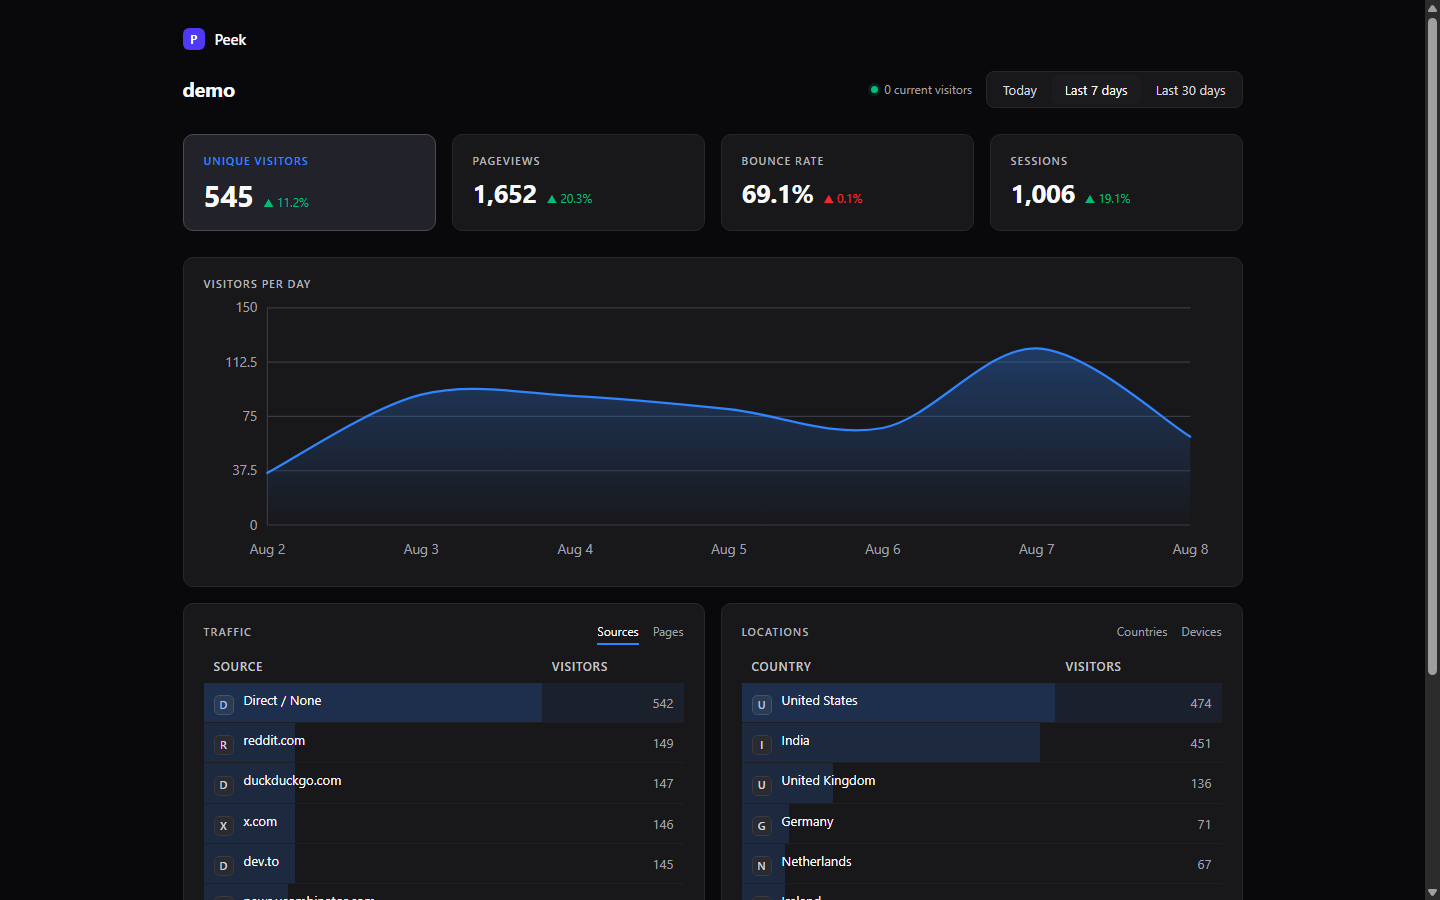
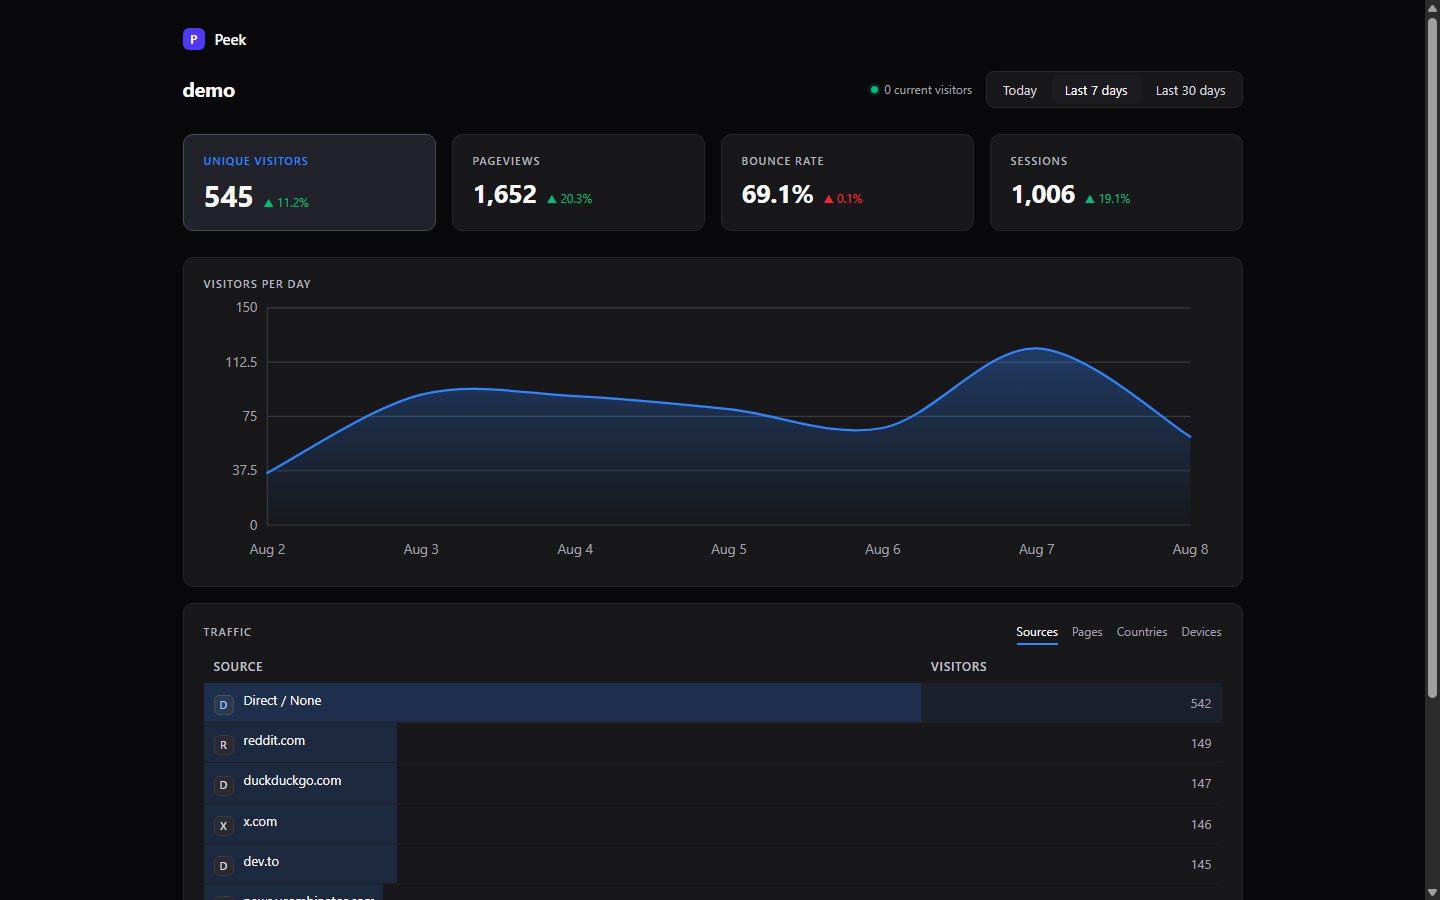
round 8: single full-width 4-tab Traffic card (Sources|Pages|Countries|Devices, Plausible-style tabbed panel), mobile chart h 140 + compact KPIs so tables fit fully above the fold (last text 814/844, 30px clearance, zero sliced rows)

diff --git a/server.js b/server.js
@@ -103,8 +103,16 @@ function renderDashboard(req, res) {
   }
 
   const tab = req.query.tab === 'pages' ? 'pages' : req.query.tab === 'countries' ? 'countries' : req.query.tab === 'devices' ? 'devices' : 'sources';
-  const tabs = (current, pairs) => pairs.map(([k, label]) =>
-    `<a href="/dashboard?range=${range}&tab=${k}"${k === current ? ' class="on"' : ''}>${label}</a>`).join('');
+  const tabs = [['sources', 'Sources'], ['pages', 'Pages'], ['countries', 'Countries'], ['devices', 'Devices']]
+    .map(([k, label]) => `<a href="/dashboard?range=${range}&tab=${k}"${k === tab ? ' class="on"' : ''}>${label}</a>`).join('');
+
+  const table = tab === 'pages'
+    ? rows(lib.topPages(SITE, Math.floor(start / 1000)), 'path', 'pv', ['Page', 'Pageviews'])
+    : tab === 'countries'
+      ? rows(lib.topCountries(SITE, Math.floor(start / 1000)).map(r => ({ ...r, country: cname(r.country) })), 'country', 'pv', ['Country', 'Visitors'])
+      : tab === 'devices'
+        ? rows(lib.topScr(SITE, Math.floor(start / 1000)).map(r => ({ ...r, scr: r.scr[0].toUpperCase() + r.scr.slice(1) })), 'scr', 'pv', ['Device', 'Visitors'])
+        : rows(lib.topRefs(SITE, Math.floor(start / 1000)), 'ref', 'pv', ['Source', 'Visitors']);
 
   const html = DASH
     .replaceAll('{{SITE}}', esc(SITE))
@@ -115,14 +123,8 @@ function renderDashboard(req, res) {
     .replaceAll('{{SESSIONS}}', lib.fmt(cur.sessions)).replaceAll('{{SESSIONS_TREND}}', trend(cur.sessions, prev.sessions))
     .replaceAll('{{LIVE}}', lib.currentVisitors(SITE))
     .replaceAll('{{CHART}}', chart)
-    .replaceAll('{{TR_TABS}}', tabs(tab, [['sources', 'Sources'], ['pages', 'Pages']]))
-    .replaceAll('{{LOC_TABS}}', tabs(tab, [['countries', 'Countries'], ['devices', 'Devices']]))
-    .replaceAll('{{TR_TABLE}}', tab === 'pages'
-      ? rows(lib.topPages(SITE, Math.floor(start / 1000)), 'path', 'pv', ['Page', 'Pageviews'])
-      : rows(lib.topRefs(SITE, Math.floor(start / 1000)), 'ref', 'pv', ['Source', 'Visitors']))
-    .replaceAll('{{LOC_TABLE}}', tab === 'devices'
-      ? rows(lib.topScr(SITE, Math.floor(start / 1000)).map(r => ({ ...r, scr: r.scr[0].toUpperCase() + r.scr.slice(1) })), 'scr', 'pv', ['Device', 'Visitors'])
-      : rows(lib.topCountries(SITE, Math.floor(start / 1000)).map(r => ({ ...r, country: cname(r.country) })), 'country', 'pv', ['Country', 'Visitors']));
+    .replaceAll('{{TABS}}', tabs)
+    .replaceAll('{{TABLE}}', table);
   res.set('Cache-Control', 'no-store');
   res.send(html);
 }

diff --git a/views/dashboard.html b/views/dashboard.html
@@ -63,7 +63,8 @@ tr.top .mono{background:#2d3a4f;border-color:#3d5570;color:#9cc2ff}
   tbody tr:nth-child(n+6){display:none}
   .sitebar{flex-direction:column;align-items:flex-start;gap:14px}
   .kpis{grid-template-columns:repeat(2,1fr);gap:12px}
-  .kpi{padding:14px}
+  .kpi{padding:10px 14px}
+  .kpi h3{margin-bottom:6px}
   .kpi .num{font-size:22px}
   .grid2{grid-template-columns:1fr}
   .card{padding:14px 14px}
@@ -88,10 +89,7 @@ tr.top .mono{background:#2d3a4f;border-color:#3d5570;color:#9cc2ff}
     <h2>Visitors per day</h2>
     {{CHART}}
   </div>
-  <div class="grid2">
-    <div class="card"><div class="cardhead"><h2>Traffic</h2><nav class="tabs">{{TR_TABS}}</nav></div>{{TR_TABLE}}</div>
-    <div class="card"><div class="cardhead"><h2>Locations</h2><nav class="tabs">{{LOC_TABS}}</nav></div>{{LOC_TABLE}}</div>
-  </div>
+  <div class="card"><div class="cardhead"><h2>Traffic</h2><nav class="tabs">{{TABS}}</nav></div>{{TABLE}}</div>
 </div>
 </body>
 </html>

diff --git a/lib.js b/lib.js
@@ -160,11 +160,8 @@ function fmtDay(d) { // '2026-08-02' -> '2 Aug' (Plausible style, day-first)
 // the mobile variant keeps them ~10px real. CSS shows one per media query.
 // Label color #a1a1aa (zinc-400) for contrast on the #18181b panel.
 function chartSVG(points, mode) {
-  const opts = [
-    { w: 900, h: 244, padL: 56, padR: 28, padT: 14, padB: 38, cls: 'chart-d', gid: 'fill', nX: 6 },
-    { w: 400, h: 220, padL: 44, padR: 14, padT: 12, padB: 32, cls: 'chart-m', gid: 'fillm', nX: 4 }
-  ];
-  return opts.map(o => buildChart(points, mode, o)).join('');
+  return buildChart(points, mode, { w: 900, h: 244, padL: 56, padR: 28, padT: 14, padB: 38, cls: 'chart-d', gid: 'fill', nX: 6 }) +
+         buildChart(points, mode, { w: 400, h: 140, padL: 44, padR: 14, padT: 12, padB: 32, cls: 'chart-m', gid: 'fillm', nX: 4 });
 }
 
 function buildChart(points, mode, { w, h, padL, padR, padT, padB, cls, gid, nX }) {
